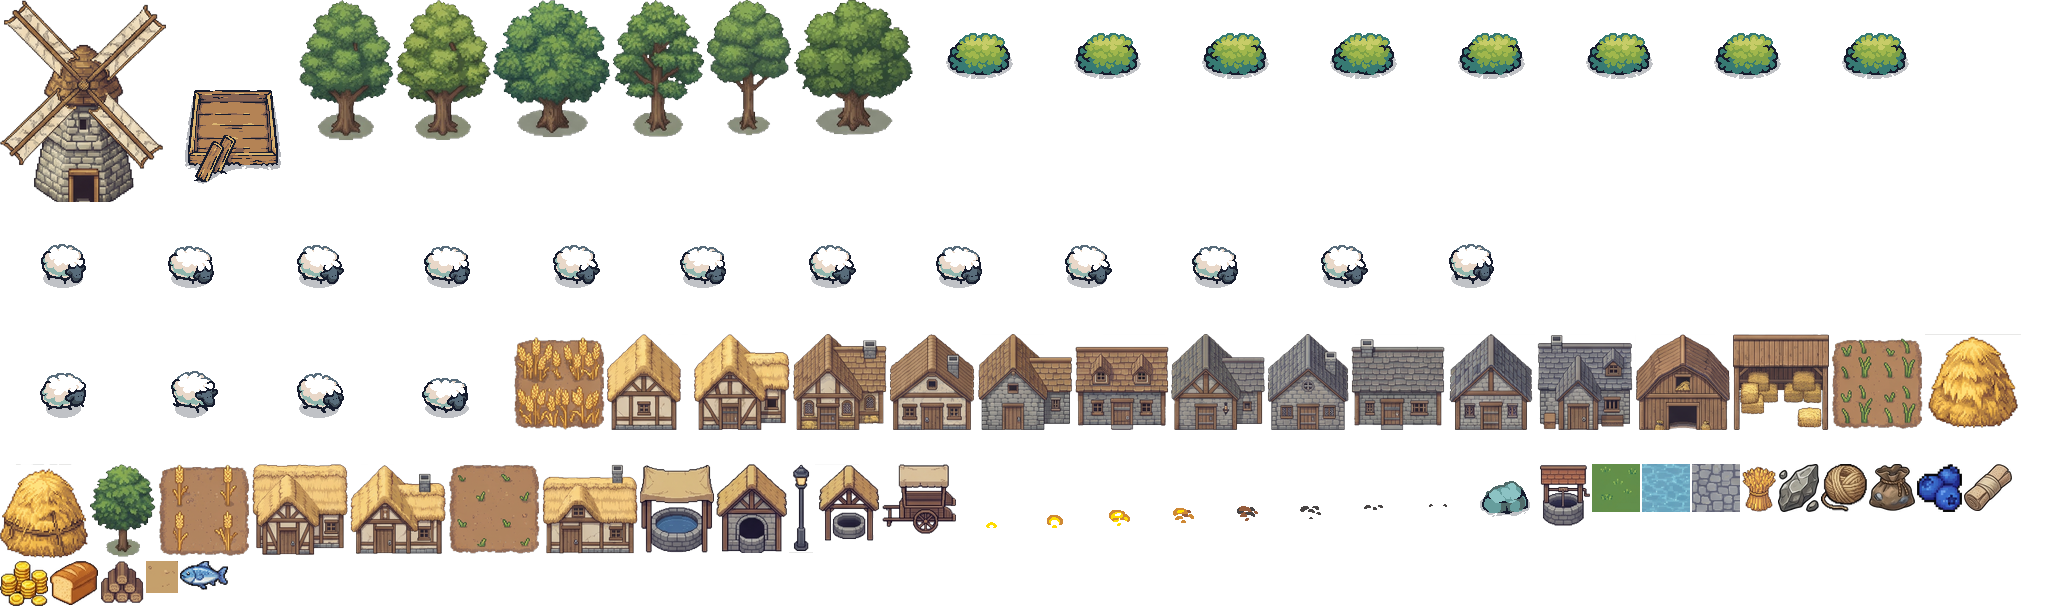
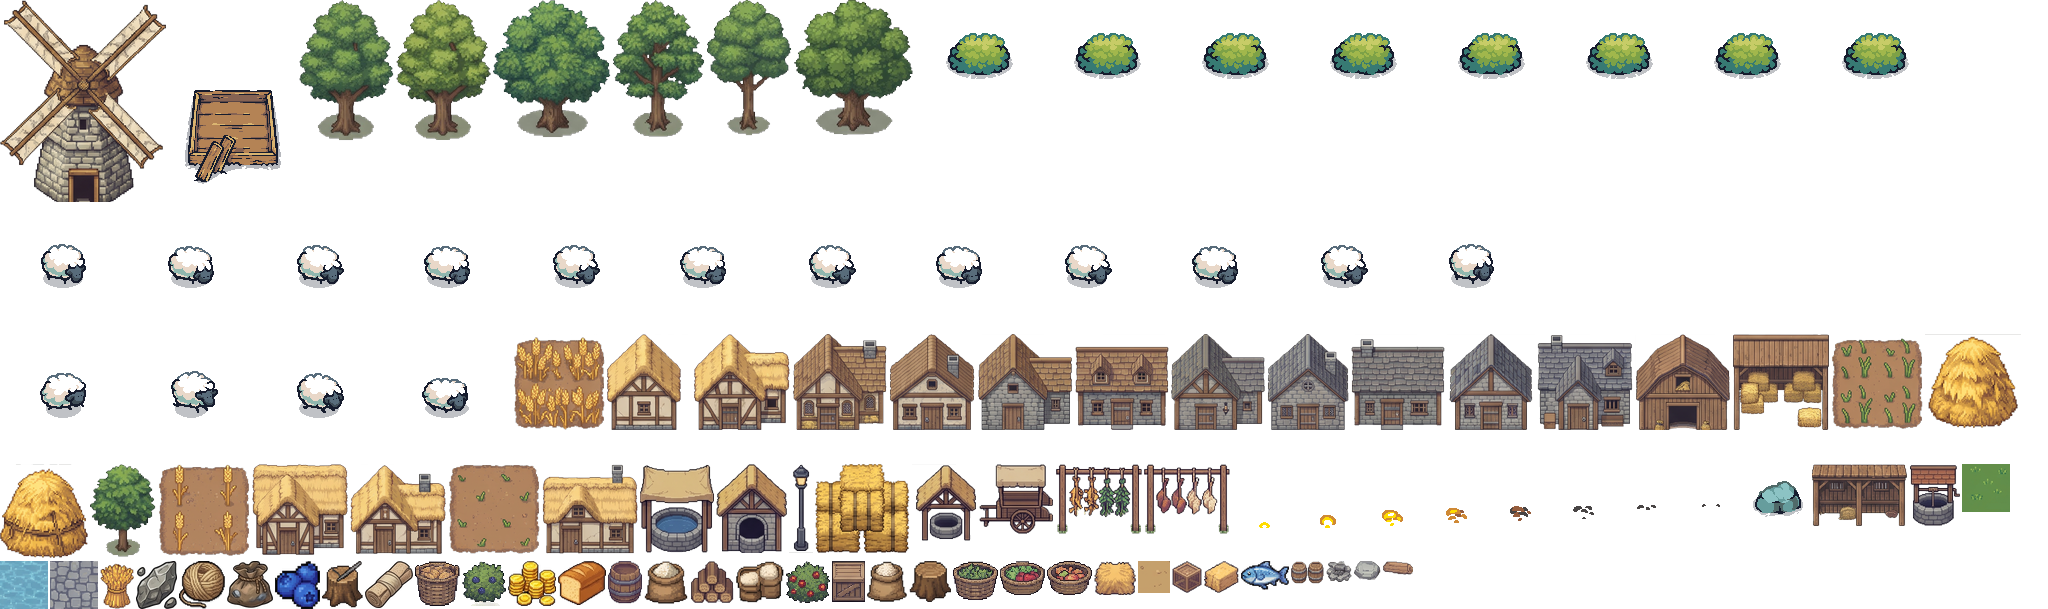
Terres franches : réserves et décor avec les morceaux des packs
- atlas.py : bûche, rochers, tonneaux, caisses, paniers, sacs, foin,
  séchoirs, souches, buissons à baies, abri (Cute SCKR ferme 3 et 5,
  village 2 et 5).
- Aire de stockage : abri ouvert, bûches et pierres devant ; grenier :
  la grange, transparente quand on la touche (les vivres dedans).
- Buissons à baies rouges ou bleues du pack (sans baies l'hiver).
- Décor des lieux de récolte qui s'étoffe à chaque statut (CAMPS).

Claude-Session: https://claude.ai/code/session_012rRjPHE6E5cJMLYcQwQ3Zv

diff --git a/terres-franches/jeu.js b/terres-franches/jeu.js
@@ -135,8 +135,39 @@ function dessinerFond(){
       if (!occupe){ PUITS = [px * T, (py + .4) * T]; break; }
     }
   }
+  placerDecor();
 }
 let PUITS = null;
+// le décor des lieux de récolte : il s'étoffe à chaque statut (la lisière des bûcherons devient un petit camp, etc.)
+let DECOR = [];
+const CAMPS = {
+  bucheron: [[0, "souche-hache", .7], [1, "souche", .6], [1, "buche", .6], [2, "tonneaux", .6], [2, "buche", .6]],
+  pecheur: [[1, "sechoir-poisson", .5], [2, "tonneau", .4], [2, "caisse-p", .45]],
+  cueilleur: [[1, "panier-baies", .45], [2, "panier-pommes", .45]],
+  carrier: [[1, "gravats", .7], [2, "caisse", .4]],
+  fermier: [[1, "botte", .5], [2, "meule-foin", .5]]
+};
+function placerDecor(){
+  DECOR = []; const pris = new Set();
+  const libreIci = (cx, cy) => C.case_(cx, cy) === "." && !ROUTES.cases.has(cy * C.W + cx) && !C.surPlace(cx, cy, S.statut) && !pris.has(cy * C.W + cx)
+    && !Object.values(C.LOTS).some(L => cx >= L.x && cx < L.x + L.l && cy >= L.y - 1 && cy <= L.y + L.h);   // ni sur un terrain ni devant sa porte
+  for (const m in CAMPS){
+    const postes = C.postes(S, m); if (!postes.length) continue;
+    for (const p of postes.slice(0, 4)) pris.add(p[1] * C.W + p[0]);   // les premiers postes : les villageois s'y tiennent
+    let k = 0;
+    for (const [st, n, ech] of CAMPS[m]){
+      if (st > S.statut) continue;
+      // près du premier poste (le plus proche du feu), sur une case libre voisine
+      for (let tour = 0; tour < 30; tour++){
+        const p = postes[Math.min(postes.length - 1, Math.floor(k / 2))], d = [[1, 0], [-1, 0], [0, 1], [1, 1], [-1, 1], [2, 0], [-2, 0], [0, 2]][(k + tour) % 8];
+        const cx = p[0] + d[0], cy = p[1] + d[1];
+        if (libreIci(cx, cy)){ pris.add(cy * C.W + cx); DECOR.push({n, X: (cx + .5) * T + (hash(cx, cy) - .5) * 8, Y: (cy + .85) * T, k: ech}); break; }
+        if (tour === 29) k++;
+      }
+      k++;
+    }
+  }
+}
 
 /* ---------- l'eau, animée ---------- */
 let motifEau = null;
@@ -206,14 +237,11 @@ function cheminee(n, X, Y, k){
   x.fillStyle = "#a8a298"; x.fillRect(X0 - 5, Y0 - 15, 11, 3); x.fillStyle = "#3a3430"; x.fillRect(X0 - 3, Y0 - 14, 7, 1);
   x.fillStyle = "#6e6862"; x.fillRect(X0 - 3, Y0 - 8, 7, 1); x.fillRect(X0 - 3, Y0 - 4, 7, 1);
 }
+// buisson à baies (pack de la ferme Cute SCKR, rouges ou bleues) ; l'hiver, sans baies
 function buissonBaies(cx, cy, t){
   const X = (cx + .5) * T, Y = (cy + 1) * T;
-  spr("buisson", X, Y, .4, t * 5 + cx, 8);
-  if (saisonVue === 3) return;
-  const mur = saisonVue === 0 ? .35 : 1;   // au printemps, peu de baies
-  for (let k = 0; k < 9; k++){ if (hash(cx * 9 + k, cy) > mur) continue;
-    const bx = Math.round(X - 13 + hash(k, cx + cy * 3) * 26), by = Math.round(Y - 30 + hash(cy + k, cx) * 20);
-    x.fillStyle = "#5a0e1e"; x.fillRect(bx - 1, by - 1, 5, 5); x.fillStyle = k % 3 ? "#d8243a" : "#8a3ad0"; x.fillRect(bx, by, 3, 3); x.fillStyle = "#ffd0d8"; x.fillRect(bx, by, 1, 1); }
+  if (saisonVue === 3){ spr("buisson", X, Y, .4, t * 5 + cx, 8); return; }
+  spr(hash(cx, cy) < .5 ? "baies-rouges" : "baies-bleues", X + Math.round(vent(X, Y, t) * .6), Y, .78);
 }
 function tente(X, Y){
   x.fillStyle = "rgba(30,40,20,.3)"; x.beginPath(); x.ellipse(X, Y, 26, 7, 0, 0, 6.3); x.fill();
@@ -414,53 +442,50 @@ function dessinerPlacement(t){
 
 /* ---------- un bâtiment ---------- */
 /* ---------- les réserves : des tas qui suivent le stock (part = stock / place) ---------- */
+/* ---------- les réserves : les morceaux des packs (bûches, rochers, sacs, paniers, tonneaux) suivent le stock (part = stock / place) ---------- */
+const J_ouvert = () => window.TerresEcran && window.TerresEcran.ouvert ? window.TerresEcran.ouvert() : null;   // la bulle ouverte
 const part = r => Math.max(0, Math.min(1, S.res[r] / R.capacite(S, r)));
-function buches(X, Y, f, n){   // un tas de bûches : n rangées au plus, remplies selon f
-  const tot = Math.round(f * n * (n + 1) / 2); let k = 0;
-  for (let rg = 0; rg < n && k < tot; rg++) for (let i = 0; i < n - rg && k < tot; i++, k++){
-    const bx = X + i * 9 + rg * 4.5, by = Y - rg * 7;
-    x.fillStyle = "#6b4423"; x.fillRect(Math.round(bx), Math.round(by - 7), 9, 7); x.fillStyle = "#c8975a"; x.beginPath(); x.ellipse(bx + 1.5, by - 3.5, 2.6, 3.4, 0, 0, 6.3); x.fill();
-    x.fillStyle = "#8a5a30"; x.fillRect(Math.round(bx + 1), Math.round(by - 4), 1, 1); }
+// un tas : n morceaux au plus en pyramide, autant que la part f ; pas = écart entre deux morceaux
+function tas(n, X, Y, f, max, k, px, py){
+  const tot = Math.round(f * max); let i = 0;
+  for (let rg = 0; i < tot; rg++) for (let c = 0; c < Math.ceil(Math.sqrt(max * 2)) - rg && i < tot; c++, i++) spr(n, X + c * px + rg * px / 2, Y - rg * py, k);
 }
-function pierres(X, Y, f, n){
-  const tot = Math.round(f * n * (n + 1) / 2); let k = 0;
-  for (let rg = 0; rg < n && k < tot; rg++) for (let i = 0; i < n - rg && k < tot; i++, k++){
-    const bx = X + i * 8 + rg * 4, by = Y - rg * 6; x.fillStyle = "#77736b"; x.beginPath(); x.ellipse(bx + 4, by - 3, 4.6, 3.6, 0, 0, 6.3); x.fill(); x.fillStyle = "#a9a59c"; x.fillRect(Math.round(bx + 2), Math.round(by - 6), 3, 1); }
+const buches = (X, Y, f, max) => tas("buche", X, Y, f, max || 10, .62, 15, 6);
+const pierres = (X, Y, f, max) => tas("rocher-p", X, Y, f, max || 6, .5, 12, 6);
+function rangee(n, X, Y, f, max, k, px){ const tot = Math.round(f * max); for (let i = 0; i < tot; i++) spr(n, X + i * px, Y, k); }
+// l'aire de stockage : un abri ouvert ; bûches et pierres devant, laine et vêtements dessous
+function aire(L, ouvert){
+  const X = L.x * T, Y = L.y * T;
+  x.fillStyle = "rgba(110,85,50,.3)"; x.fillRect(X + 2, Y + 30, 60, 32);
+  x.globalAlpha = ouvert ? .35 : 1; spr("abri", X + 32, Y + 44, .68); x.globalAlpha = 1;
+  rangee("sac", X + 12, Y + 42, part("laine"), 3, .3, 10); rangee("caisse-p", X + 44, Y + 42, part("vetements"), 2, .3, 10);
+  buches(X + 2, Y + 62, part("bois"), 10); tas("rocher-p", X + 36, Y + 63, part("pierre"), 5, .44, 9, 5);
 }
-function sacs(X, Y, f, n, coul){   // sacs (laine, blé, farine) ou paniers
-  const k = Math.round(f * n);
-  for (let i = 0; i < k; i++){ const bx = X + (i % 3) * 9 + (i >= 3 ? 4 : 0), by = Y - Math.floor(i / 3) * 7;
-    x.fillStyle = "#3a2a18"; x.fillRect(Math.round(bx) - 1, Math.round(by - 10), 9, 11); x.fillStyle = coul; x.fillRect(Math.round(bx), Math.round(by - 9), 7, 9); x.fillStyle = "rgba(255,255,255,.35)"; x.fillRect(Math.round(bx + 1), Math.round(by - 8), 2, 4); x.fillStyle = "#5a4024"; x.fillRect(Math.round(bx + 2), Math.round(by - 11), 3, 2); }
-}
-function panier(X, Y, f, coul, dessus){   // un panier rempli de baies ou de poissons
-  x.fillStyle = "#7a5530"; x.beginPath(); x.ellipse(X, Y - 4, 9, 5, 0, 0, 6.3); x.fill(); x.fillStyle = "#a07440"; x.fillRect(X - 9, Y - 5, 18, 2);
-  for (let i = 0; i < Math.round(f * 10); i++){ x.fillStyle = i % 2 ? coul : dessus; x.fillRect(Math.round(X - 7 + (i * 5) % 14), Math.round(Y - 8 - Math.floor(i / 3) * 2), 3, 3); }
-}
-function aire(L){
-  const X = L.x * T, Y = L.y * T, W = L.l * T, H = L.h * T;
-  x.fillStyle = "rgba(110,85,50,.35)"; x.fillRect(X + 2, Y + 6, W - 4, H - 8);
-  x.strokeStyle = "#6a4a26"; x.lineWidth = 2; x.strokeRect(X + 2, Y + 6, W - 4, H - 8);
-  for (let k = 0; k <= 4; k++){ x.fillStyle = "#5a3a1c"; x.fillRect(X + 1 + k * (W - 6) / 4, Y + 3, 3, 6); }
-  buches(X + 5, Y + 30, part("bois"), 5); pierres(X + 6, Y + H - 4, part("pierre"), 4);
-  sacs(X + 40, Y + H - 4, part("laine"), 3, "#e8e2d0"); sacs(X + 40, Y + 30, part("vetements"), 3, "#5a7ab0");
-}
-function grenier(L){
+// le grenier : la grange ; quand on le touche, il devient transparent et on voit les vivres dedans (comme dans Stronghold)
+function grenier(L, ouvert){
   const X = (L.x + L.l / 2) * T, Y = (L.y + L.h) * T - 2;
   x.fillStyle = "rgba(20,30,10,.25)"; x.beginPath(); x.ellipse(X, Y - 2, 32, 6, 0, 0, 6.3); x.fill();
+  if (ouvert){
+    x.fillStyle = "rgba(90,62,34,.85)"; x.fillRect(X - 30, Y - 40, 60, 38);   // le plancher
+    rangee("sacs-grain", X - 27, Y - 26, part("ble"), 3, .4, 17); rangee("sac-farine", X - 27, Y - 12, part("farine"), 3, .36, 17);
+    rangee("panier-patates", X + 6, Y - 26, part("pain"), 2, .4, 17); rangee("panier-baies", X + 6, Y - 4, part("baies"), 2, .42, 18);
+    rangee("tonneau", X - 27, Y - 2, part("poisson"), 3, .36, 12);
+    x.globalAlpha = .3; spr("grange", X, Y - 4, .66); x.globalAlpha = 1; return;
+  }
   spr("grange", X, Y - 4, .66);
-  sacs(X - 30, Y + 2, part("ble"), 3, "#d8b450"); sacs(X + 6, Y + 2, part("farine"), 3, "#f2ece0");
-  panier(X - 18, Y + 12, part("baies"), "#c8243a", "#7a2ab0"); panier(X + 4, Y + 12, part("poisson"), "#8aa8c0", "#c8d8e4"); sacs(X + 16, Y + 14, part("pain"), 2, "#c88a3a");
+  if (part("baies") > .02) spr("panier-baies", X - 20, Y + 12, .38); if (part("poisson") > .02) spr("tonneau", X + 20, Y + 12, .34);
+  if (part("ble") > .02) spr("sacs-grain", X - 2, Y + 12, .34);
 }
-// avant le grenier et l'aire : le stock est près du feu (tas de bûches, paniers)
+// avant le grenier et l'aire : le stock est près du feu
 function reservesDuFeu(){
   const [fx, fy] = C.FEU, X = (fx + .5) * T, Y = (fy + .5) * T;
-  if (!S.bat.aire){ buches(X - 52, Y + 30, part("bois"), 4); if (S.res.pierre > 0) pierres(X - 52, Y + 44, part("pierre"), 3); }
-  if (!S.bat.grenier){ panier(X + 38, Y + 30, part("baies"), "#c8243a", "#7a2ab0"); panier(X + 58, Y + 30, part("poisson"), "#8aa8c0", "#c8d8e4"); }
+  if (!S.bat.aire){ buches(X - 70, Y + 34, part("bois"), 6); if (S.res.pierre > 0) pierres(X - 70, Y + 48, part("pierre"), 3); }
+  if (!S.bat.grenier){ if (part("baies") > .01) spr("panier-baies", X + 46, Y + 34, .4 + .2 * part("baies")); if (part("poisson") > .01) spr("tonneau", X + 68, Y + 34, .3 + .15 * part("poisson")); }
 }
 function batiment(b, id, t, fantome){
   const L = C.LOTS[id], X = (L.x + L.l / 2) * T, Y = (L.y + L.h) * T - 4;
-  if (b === "aire"){ aire(L); return; }
-  if (b === "grenier"){ grenier(L); return; }
+  if (b === "aire"){ aire(L, J_ouvert() === id); return; }
+  if (b === "grenier"){ grenier(L, J_ouvert() === id); return; }
   if (b === "champ"){ champ(L, t, id.charCodeAt(0)); return; }
   if (b === "ponton"){ ponton(L); return; }
   if (b === "carriere"){ carriere(L, true); return; }
@@ -524,6 +549,7 @@ function image(now){
   if (S.statut < 1) L.push([(ty + .9) * T, () => tente((tx + .5) * T, (ty + .9) * T)]);   // au hameau, le pionnier a son toit
   L.push([(fy + .75) * T, () => feuDeCamp((fx + .5) * T, (fy + .75) * T, t)]);
   L.push([(fy + 1.4) * T, reservesDuFeu]);
+  for (const d of DECOR) if (vis(d.X, d.Y, 60)) L.push([d.Y, () => spr(d.n, d.X, d.Y, d.k)]);
   if (PUITS) L.push([PUITS[1], () => spr(S.statut >= 2 ? "fontaine" : "puits", PUITS[0], PUITS[1], S.statut >= 2 ? .8 : .7)]);
   for (const a of AG){ bouger(a, dt); L.push([a.y, () => dessinerAgent(a)]); }
   PI.f += dt * 8; if (PI.anim === "travail" && t > PI.fin) PI.anim = "repos";

diff --git a/terres-franches/atlas.js b/terres-franches/atlas.js
@@ -1,3 +1,3 @@
 /* Terres franches : où est chaque image dans img/decor.png et img/animaux.png (fabriqué par outils/terres-maquette/atlas.py). */
-window.TerresAtlas = {"moulin1":[0,0,167,202],"chantier":[169,0,128,192],"s-arbre1":[299,0,95,141],"s-arbre6":[396,0,95,140],"s-arbre5":[493,0,118,138],"s-arbre3":[613,0,92,137],"s-arbre2":[707,0,85,136],"s-arbre4":[794,0,119,135],"buisson":[915,0,1024,128],"mouton-broute":[0,204,1536,128],"mouton-marche":[0,334,512,128],"champ-mur":[514,334,91,96],"chaume2":[607,334,85,96],"chaume5":[694,334,96,96],"colomb1":[792,334,95,96],"colomb2":[889,334,86,96],"colomb3":[977,334,96,96],"colomb4":[1075,334,94,96],"pierre1":[1171,334,94,96],"pierre2":[1267,334,82,96],"pierre3":[1351,334,94,96],"pierre4":[1447,334,88,96],"pierre5":[1537,334,96,96],"grange":[1635,334,96,96],"hangar":[1733,334,96,96],"champ-pousse":[1831,334,92,95],"meule1":[1925,334,96,95],"meule2":[0,464,88,95],"s-jeune":[90,464,66,93],"champ-blond":[158,464,92,92],"chaume1":[252,464,96,91],"chaume4":[350,464,96,91],"champ-nu":[448,464,92,90],"chaume3":[542,464,96,90],"fontaine":[640,464,74,89],"four":[716,464,71,89],"lanterne":[789,464,24,89],"puits-couvert":[815,464,65,77],"charrette":[882,464,75,70],"feu":[959,464,512,64],"rocher":[1473,464,64,64],"puits":[1539,464,51,62],"herbe":[1592,464,48,48],"eau":[1642,464,48,48],"pave":[1692,464,48,48],"i-ble":[1742,464,34,48],"i-pierre":[1778,464,41,48],"i-laine":[1821,464,46,48],"i-farine":[1869,464,46,48],"i-baies":[1917,464,45,48],"i-tissu":[1964,464,48,47],"i-or":[0,561,48,45],"i-pain":[50,561,48,44],"i-bois":[100,561,44,42],"terre":[146,561,32,32],"i-poisson":[180,561,48,29]};
+window.TerresAtlas = {"moulin1":[0,0,167,202],"chantier":[169,0,128,192],"s-arbre1":[299,0,95,141],"s-arbre6":[396,0,95,140],"s-arbre5":[493,0,118,138],"s-arbre3":[613,0,92,137],"s-arbre2":[707,0,85,136],"s-arbre4":[794,0,119,135],"buisson":[915,0,1024,128],"mouton-broute":[0,204,1536,128],"mouton-marche":[0,334,512,128],"champ-mur":[514,334,91,96],"chaume2":[607,334,85,96],"chaume5":[694,334,96,96],"colomb1":[792,334,95,96],"colomb2":[889,334,86,96],"colomb3":[977,334,96,96],"colomb4":[1075,334,94,96],"pierre1":[1171,334,94,96],"pierre2":[1267,334,82,96],"pierre3":[1351,334,94,96],"pierre4":[1447,334,88,96],"pierre5":[1537,334,96,96],"grange":[1635,334,96,96],"hangar":[1733,334,96,96],"champ-pousse":[1831,334,92,95],"meule1":[1925,334,96,95],"meule2":[0,464,88,95],"s-jeune":[90,464,66,93],"champ-blond":[158,464,92,92],"chaume1":[252,464,96,91],"chaume4":[350,464,96,91],"champ-nu":[448,464,92,90],"chaume3":[542,464,96,90],"fontaine":[640,464,74,89],"four":[716,464,71,89],"lanterne":[789,464,24,89],"meule-foin":[815,464,95,89],"puits-couvert":[912,464,65,77],"charrette":[979,464,75,70],"sechoir-poisson":[1056,464,86,70],"sechoir-viande":[1144,464,86,70],"feu":[1232,464,512,64],"rocher":[1746,464,64,64],"abri":[1812,464,95,63],"puits":[1909,464,51,62],"herbe":[1962,464,48,48],"eau":[0,561,48,48],"pave":[50,561,48,48],"i-ble":[100,561,34,48],"i-pierre":[136,561,41,48],"i-laine":[179,561,46,48],"i-farine":[227,561,46,48],"i-baies":[275,561,45,48],"souche-hache":[322,561,41,47],"i-tissu":[365,561,48,47],"panier-patates":[415,561,45,45],"baies-bleues":[462,561,44,45],"i-or":[508,561,48,45],"i-pain":[558,561,48,44],"tonneau":[608,561,34,43],"sac-farine":[644,561,44,43],"i-bois":[690,561,44,42],"sacs-grain":[736,561,48,42],"baies-rouges":[786,561,44,42],"caisse":[832,561,33,41],"sac":[867,561,40,41],"souche":[909,561,42,41],"panier-legumes":[953,561,45,39],"panier-baies":[1000,561,45,34],"panier-pommes":[1047,561,45,34],"foin":[1094,561,42,34],"terre":[1138,561,32,32],"caisse-p":[1172,561,30,32],"botte":[1204,561,35,32],"i-poisson":[1241,561,48,29],"tonneaux":[1291,561,33,23],"gravats":[1326,561,26,21],"rocher-p":[1354,561,27,19],"buche":[1383,561,30,14]};
 window.TerresAnimauxAtlas = {"chat":[0,0,512,256],"chien":[514,0,512,256],"biche":[1028,0,256,384],"cerf":[1286,0,256,384],"renard":[1544,0,256,256],"oiseau1":[1802,0,96,256],"oiseau2":[1900,0,96,256],"poule":[1998,0,128,128],"poule-mange":[2128,0,128,128],"poisson":[2258,0,128,128]};

diff --git a/terres-franches/ecran.js b/terres-franches/ecran.js
@@ -233,7 +233,7 @@ addEventListener("keydown", e => {
 
 let derniere = 0;
 window.TerresEcran = {
-  annonce, bulle, placement, retour,
+  annonce, bulle, placement, retour, ouvert: () => bulleLot,
   depart(recap){ majBarre(); retour(recap); },
   image(t){ if (t - derniere > .25){ derniere = t; majBarre(); majVolet(); const bi = $("bInfo"); if (bi && bulleLot){ const h = infoBulle(bulleLot); if (bi.innerHTML !== h) bi.innerHTML = h; } } placerBulle(); }
 };

diff --git a/outils/terres-maquette/atlas.py b/outils/terres-maquette/atlas.py
@@ -15,12 +15,22 @@ ici, jeu = racine / "outils/terres-maquette", racine / "terres-franches"
 (jeu / "img").mkdir(parents=True, exist_ok=True)
 src2 = (ici / "fabriquer-2.py").read_text(encoding="utf-8")
 TOUTES = eval(re.search(r"DECOUPES = (\{.*?\n\})", src2, re.S).group(1))
+# réserves et décor des lieux de récolte (09/11) : bûche, rochers, tonneaux, caisses, paniers, sacs, foin, séchoirs, souches, buissons à baies, abri
+TOUTES.update({"buche": ("V2", 683, 482, 30, 14), "rocher-p": ("V2", 681, 545, 27, 19), "gravats": ("V2", 731, 543, 26, 21), "tonneaux": ("V2", 672, 392, 33, 23),
+  "abri": ("V2", 385, 386, 95, 66), "tonneau": ("F5", 391, 579, 34, 43), "caisse": ("F3", 536, 678, 33, 41), "caisse-p": ("F5", 441, 584, 30, 32),
+  "panier-baies": ("F3", 626, 682, 45, 34), "panier-pommes": ("F3", 626, 734, 45, 34), "panier-legumes": ("F3", 578, 729, 45, 39), "panier-patates": ("F3", 578, 675, 45, 45),
+  "sechoir-poisson": ("F5", 581, 399, 86, 70), "sechoir-viande": ("F5", 485, 399, 86, 70), "sac-farine": ("V5", 722, 147, 44, 43), "sacs-grain": ("V5", 144, 724, 48, 42),
+  "sac": ("V5", 148, 676, 40, 41), "foin": ("F5", 291, 586, 42, 34), "botte": ("F5", 534, 584, 35, 32), "meule-foin": ("V5", 673, 677, 95, 89),
+  "souche-hache": ("V5", 6, 96, 41, 47), "souche": ("V5", 52, 54, 42, 41), "baies-rouges": ("F3", 51, 389, 44, 42), "baies-bleues": ("F3", 3, 485, 44, 45)})
 TOUTES.update({"i-bois": ("V1", 96, 528, 48, 48), "i-ble": ("F4", 0, 576, 48, 48), "terre": ("V1", 60, 56, 32, 32), "eau": ("V3", 408, 410, 48, 48), "herbe": ("V1", 235, 387, 48, 48)})
 GARDE = ["herbe", "terre", "eau", "pave", "champ-mur", "champ-pousse", "champ-nu", "champ-blond", "chaume1", "chaume2", "chaume3", "chaume4", "chaume5",
   "colomb1", "colomb2", "colomb3", "colomb4", "pierre1", "pierre2", "pierre3", "pierre4", "pierre5", "grange", "hangar", "moulin1", "meule1", "meule2",
-  "puits", "puits-couvert", "fontaine", "four", "charrette", "lanterne", "s-arbre1", "s-arbre2", "s-arbre3", "s-arbre4", "s-arbre5", "s-arbre6", "s-jeune", "i-bois", "i-ble"]
+  "puits", "puits-couvert", "fontaine", "four", "charrette", "lanterne", "s-arbre1", "s-arbre2", "s-arbre3", "s-arbre4", "s-arbre5", "s-arbre6", "s-jeune", "i-bois", "i-ble",
+  "buche", "rocher-p", "gravats", "tonneaux", "abri", "tonneau", "caisse", "caisse-p", "panier-baies", "panier-pommes", "panier-legumes", "panier-patates",
+  "sechoir-poisson", "sechoir-viande", "sac-farine", "sacs-grain", "sac", "foin", "botte", "meule-foin", "souche-hache", "souche", "baies-rouges", "baies-bleues"]
 def feuille(d, n): return next((SC / d).rglob(f"tile-B-0{n}.png"))
-F = {"V1": feuille("village", 1), "V2": feuille("village", 2), "V3": feuille("village", 3), "F4": feuille("farm", 4), "B4": feuille("buildings", 4), "FO": feuille("foret", 1)}
+F = {"V1": feuille("village", 1), "V2": feuille("village", 2), "V3": feuille("village", 3), "F4": feuille("farm", 4), "B4": feuille("buildings", 4), "FO": feuille("foret", 1),
+  "F3": feuille("farm", 3), "F5": feuille("farm", 5), "V5": feuille("village", 5)}
 images, cache = {}, {}
 for nom in GARDE:
   f, x, y, l, h, *eff = TOUTES[nom]

diff --git a/specs/terres-franches.md b/specs/terres-franches.md
@@ -84,6 +84,7 @@
   - Retouches : volet CONSTRUIRE rangé dans l'ordre où l'on peut bâtir (l'aire de stockage était en bas) ; pêcheur figé sur le geste du lancer au lieu de la canne tendue ; minuteur de la bulle d'un chantier qui ne baisse pas ; le **poisson doit compter pour recruter** (c'est de la nourriture : le coût affiché « baies » trompe) ; **villageois libres** plus lisibles ; **place maximale** de chaque ressource visible (chiffre sur PC, jauge plus nette sur mobile) ; biches bloquées (les laisser passer sous les arbres) ; ombre du chat couché (il lévite) ; les villageois vont-ils plus vite sur les routes ? (à faire, et améliorable).
   - **Graphismes avec les packs** : aire de stockage et tas avec les morceaux des packs (bûches des icônes, caisses, tonneaux, sacs…), pas dessinés à la main ; **grenier « à la Stronghold »** : quand on le touche, il devient transparent et on voit les vivres dedans ; **décor aux lieux de récolte**, qui s'étoffe à chaque statut (la lisière des bûcherons devient un petit camp de bûcherons, etc.).
   - **Ordonnances et équipements** (pendant la partie, payés en ressources ; certains seulement à partir du hameau, faute de pierre au campement) : vitesse sur les routes ; vitesse de récolte ; quantité portée ; nombre maximal d'habitants indépendamment du statut ; bonheur général ; bois brûlé l'hiver ; nourriture mangée l'hiver ; nombre de personnes par lieu de récolte (les villageois vont sur d'autres arbres, buissons, coins de pêche) ; récolter la pierre (puis d'autres ressources) au toucher ; plus d'une ressource par toucher ; et d'autres petites améliorations.
+  - **Fait le 09/11** : ordre de construction, canne tendue, minuteur, vivres, libres, place maximale, biches, chat, rues 1,5 × plus rapides ; **morceaux des packs** (Cute SCKR, feuilles ferme 3 et 5, village 2 et 5 ; `atlas.py`) : bûches, rochers, tonneaux, caisses, paniers, sacs de grain et de farine, foin, séchoirs, souches, buissons à baies rouges et bleues, abri ouvert de l'aire ; **grenier et aire transparents** quand on les touche (on voit les vivres dedans) ; **décor des lieux de récolte** par statut (`CAMPS` de `jeu.js` : souche et hache au campement ; bûches, séchoir à poissons, panier de baies, gravats, botte au hameau ; tonneaux, caisses, meule de foin au village).
   - **Pillards** (très peu au début) : ils volent des ressources ; agrandir le grenier et l'aire **met à l'abri** une partie du stock (des ordonnances aussi) ; une **petite tour** prévient de leur arrivée ; une **caserne** et un nouveau métier, la **garde**, défendent le village automatiquement ; des améliorations rendent les gardes plus forts ; la **forge** fait de meilleurs équipements ; un garde blessé met du temps à se remettre (d'autres améliorations possibles).
 - Prochaines étapes après le choix : décisions du § 2, puis **simulateur d'équilibrage d'abord** (`outils/terres-simulateur.js`, ère 1), puis session 1.
 
